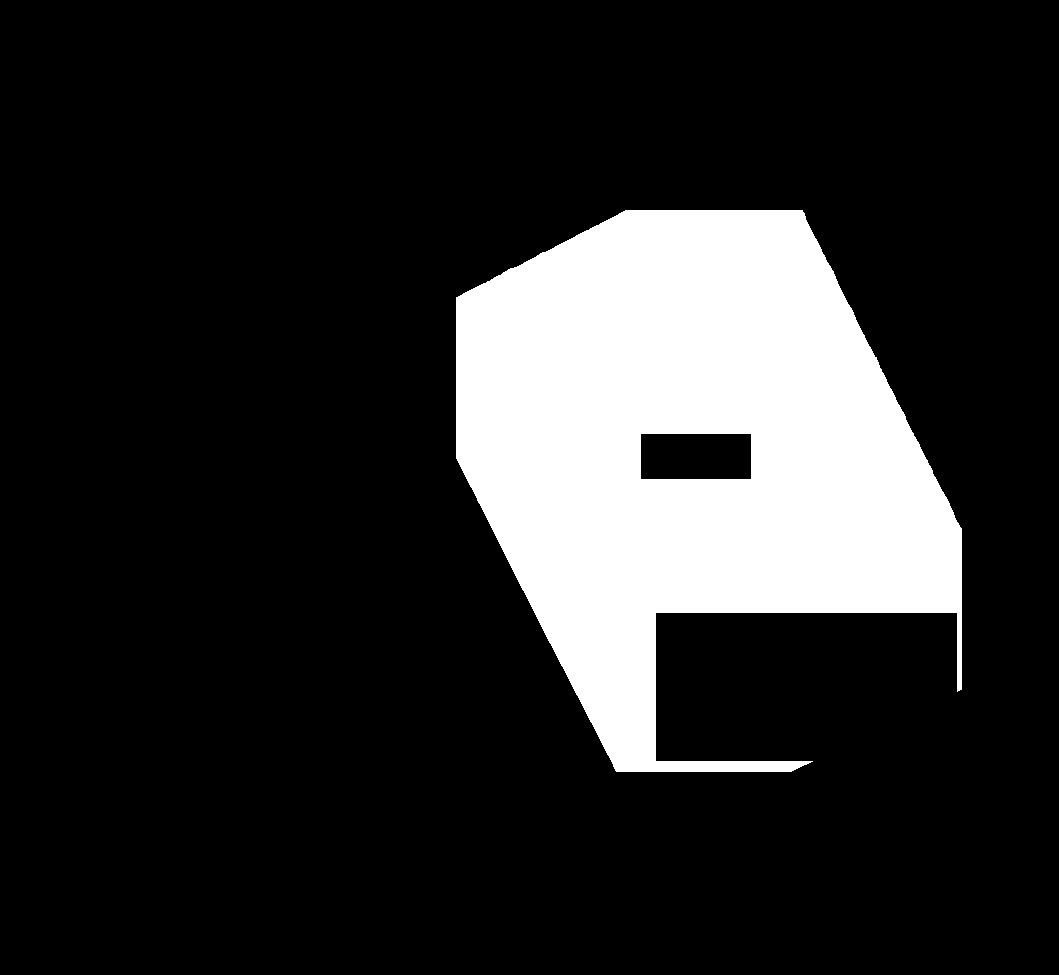
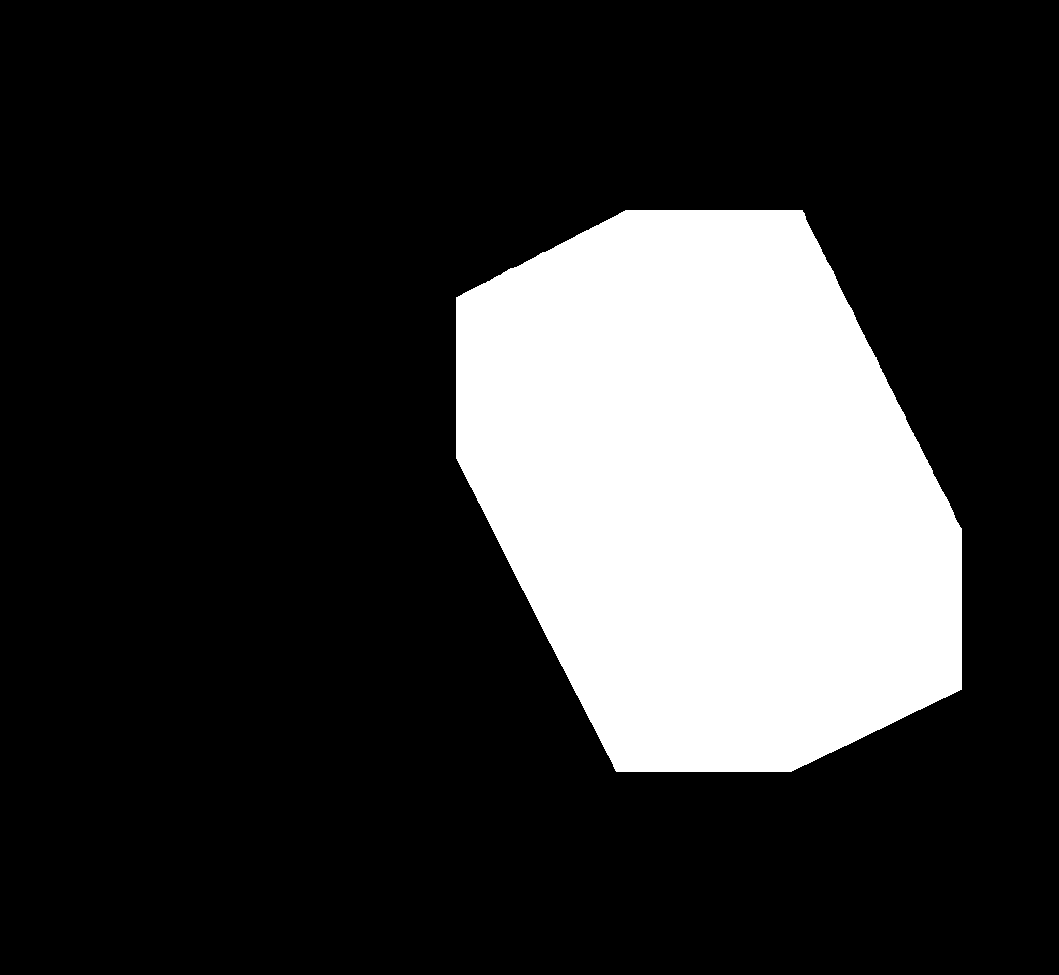
The text is found within the bkground mask (still need to re-tune parameters or something might be wrong, bad results)

Changed region(s): [[0.5921, 0.6154, 0.9037, 0.8], [0.5921, 0.4308, 0.7167, 0.4923]]

diff --git a/week5/text_removal_mask2.py b/week5/text_removal_mask2.py
@@ -22,107 +22,115 @@ def find_text(img, background_mask, name, option):
         min_compactness_ratio = 0.002
         th=0.005
 
-    #Image pre-processing: the difference betwen the image opening and closing is computed
-    kernel = cv.getStructuringElement(cv.MORPH_ELLIPSE, (2*6-1, 2*6-1))
-    img_opening = cv.morphologyEx(img, cv.MORPH_OPEN, kernel)
-    img_closing = cv.morphologyEx(img, cv.MORPH_CLOSE, kernel)
-    img_enhanced = img_closing - img_opening
-    img_lowpass	= cv.GaussianBlur(img_enhanced, (5,5), 20)
-
-    #Binarization: only the 4% brightest pixels are set to positive
+    masks = []
     height = img.shape[0]
     width = img.shape[1]
     npx =  height*width
-    hist = cv.calcHist([img_lowpass], [0], None, [256], [0, 255])/npx
-    prob=0
-    i=0
-    while(prob<th):
-        prob += hist[255-i][0]
-        i+=1
-    th=255-i
-    ret,img_binary = cv.threshold(img_lowpass,th,255,cv.THRESH_BINARY)
 
-    #Candidate text region extraction
-    kernel = np.ones((15,30), np.uint8)
-    img_dilated = cv.dilate(img_binary,kernel,iterations = 3)
-    kernel = np.ones((10,10), np.uint8)
-    img_eroded = cv.erode(img_dilated,kernel,iterations = 2)
-    img_opening = cv.morphologyEx(img_eroded, cv.MORPH_OPEN, np.ones((15,15), np.uint8))
+    for picture in range(np.shape(background_mask)[0]):
+        #Crop image
+        img = cv.bitwise_and(img, img, mask=background_mask[picture])
 
-    num, labels = cv.connectedComponents(img_opening)
-    sorted_labels = labels.ravel()
-    sorted_labels = np.sort(sorted_labels)
+        #Image pre-processing: the difference betwen the image opening and closing is computed
+        kernel = cv.getStructuringElement(cv.MORPH_ELLIPSE, (2*6-1, 2*6-1))
+        img_opening = cv.morphologyEx(img, cv.MORPH_OPEN, kernel)
+        img_closing = cv.morphologyEx(img, cv.MORPH_CLOSE, kernel)
+        img_enhanced = img_closing - img_opening
+        img_lowpass	= cv.GaussianBlur(img_enhanced, (5,5), 20)
 
-    labels = np.uint8(labels)
-    """
-    cv.imshow("img_binary", labels*255)
-    cv.waitKey(0)
-    cv.destroyAllWindows()
-    """
-    #Discarting non desired regions
-    if np.shape(background_mask)[0]>1:
-        min_size = npx/(20*20)
-    else:
-        min_size = npx/(15*15)
-    coords = []
+        #Binarization: only the 4% brightest pixels are set to positive
+        hist = cv.calcHist([img_lowpass], [0], None, [256], [0, 255])/npx
+        prob=0
+        i=0
+        while(prob<th and i<256):
+            prob += hist[255-i][0]
+            i+=1
+        th=255-i
+        ret,img_binary = cv.threshold(img_lowpass,th,255,cv.THRESH_BINARY)
 
-    for i in range(1, num+1):
+        #Candidate text region extraction
+        kernel = np.ones((15,30), np.uint8)
+        img_dilated = cv.dilate(img_binary,kernel,iterations = 3)
+        kernel = np.ones((10,10), np.uint8)
+        img_eroded = cv.erode(img_dilated,kernel,iterations = 2)
+        img_opening = cv.morphologyEx(img_eroded, cv.MORPH_OPEN, np.ones((15,15), np.uint8))
 
-        region = labels == i
-        region = np.uint8(region)
-        positions =  np.where(labels == i)
-        size = len(positions[0])
+        cv.namedWindow('img_opening',cv.WINDOW_NORMAL)
+        cv.resizeWindow('img_opening', 600,600)
+        cv.imshow("img_opening", img_opening)
+        cv.waitKey(0)
+        cv.destroyAllWindows()
 
-        if size < min_size:
+        num, labels = cv.connectedComponents(img_opening)
+        sorted_labels = labels.ravel()
+        sorted_labels = np.sort(sorted_labels)
 
-            labels[positions] = 0
-
+        labels = np.uint8(labels)
+        """
+        cv.imshow("img_binary", labels*255)
+        cv.waitKey(0)
+        cv.destroyAllWindows()
+        """
+        #Discarting non desired regions
+        if np.shape(background_mask)[0]>1:
+            min_size = npx/(20*20)
         else:
+            min_size = npx/(15*15)
+        coords = []
 
-            _, contours,_ = cv.findContours(region, cv.RETR_EXTERNAL, cv.CHAIN_APPROX_NONE)
-            contour_sizes = [(cv.contourArea(contour), contour) for contour in contours]
-            largest_contour = max(contour_sizes, key=lambda x: x[0])[1]
-            (x,y,w,h) = cv.boundingRect(largest_contour)
-            perimeter = cv.arcLength(largest_contour,True)
-            if h/w>max_aspect_ratio or h/w<min_aspect_ratio or len(positions[0])/(w*h)<min_occupancy_ratio or (w*h)/(perimeter*perimeter)<min_compactness_ratio:
+        for i in range(1, num+1):
+
+            region = labels == i
+            region = np.uint8(region)
+            positions =  np.where(labels == i)
+            size = len(positions[0])
+
+            if size < min_size:
+
                 labels[positions] = 0
+
             else:
-                coords.append((x,y,w,h,size))
-    
-    # cv.namedWindow('img_binary',cv.WINDOW_NORMAL)
-    # cv.resizeWindow('img_binary', 600,600)
-    # cv.imshow("img_binary", labels*255)
-    # cv.waitKey(0)
-    # cv.destroyAllWindows()
-    
-    #Creating the expected number of masks by keeping the biggest bounding boxes
-    coords.sort(key=lambda x:x[4], reverse=True)
-    masks = []
-    tx = []
-    ty = []
-    if option == 'find':
-        length = np.shape(background_mask)[0]
-    if option == 'remove':
-        length = max(len(coords),np.shape(background_mask)[0])
 
-    for i in range(length):
-        if len(coords)>0:
-            (x,y,w,h,size) = coords.pop(0)
-            m = np.zeros((height,width),np.uint8)
-            m[y:y + h, x:x + w] = 255
-            masks.append(np.uint8(m))
-            tx.append((x+w)/2)
-            ty.append((y+h)/2)
-        else:
-            m = np.zeros((height,width),np.uint8)
-            masks.append(np.uint8(m))
-
-        # cv.namedWindow('mask',cv.WINDOW_NORMAL)
-        # cv.resizeWindow('mask', 600,600)
-        # cv.imshow("mask", masks[i])
+                _, contours,_ = cv.findContours(region, cv.RETR_EXTERNAL, cv.CHAIN_APPROX_NONE)
+                contour_sizes = [(cv.contourArea(contour), contour) for contour in contours]
+                largest_contour = max(contour_sizes, key=lambda x: x[0])[1]
+                (x,y,w,h) = cv.boundingRect(largest_contour)
+                perimeter = cv.arcLength(largest_contour,True)
+                if h/w>max_aspect_ratio or h/w<min_aspect_ratio or len(positions[0])/(w*h)<min_occupancy_ratio or (w*h)/(perimeter*perimeter)<min_compactness_ratio:
+                    labels[positions] = 0
+                else:
+                    coords.append((x,y,w,h,size))
+        
+        # cv.namedWindow('img_binary',cv.WINDOW_NORMAL)
+        # cv.resizeWindow('img_binary', 600,600)
+        # cv.imshow("img_binary", labels*255)
         # cv.waitKey(0)
         # cv.destroyAllWindows()
+        
+        #Creating the expected number of masks by keeping the biggest bounding boxes
+        coords.sort(key=lambda x:x[4], reverse=True)
+        tx = []
+        ty = []
+        mask=[]
+        if option == 'find':
+            length = 1
+        if option == 'remove':
+            length = max(len(coords),1)
 
+        m = np.zeros((height,width),np.uint8)
+        for i in range(length):
+            if len(coords)>0:
+                (x,y,w,h,size) = coords.pop(0)   
+                m[y:y + h, x:x + w] = 255
+                tx.append((x+w)/2)
+                ty.append((y+h)/2)
+
+            cv.namedWindow('mask',cv.WINDOW_NORMAL)
+            cv.resizeWindow('mask', 600,600)
+            cv.imshow("mask", m)
+            cv.waitKey(0)
+            cv.destroyAllWindows()
+        masks.append(m)
 
     if option == 'remove':
         total_mask=np.zeros((height,width),np.uint8)
@@ -133,29 +141,26 @@ def find_text(img, background_mask, name, option):
             total_masks.append(total_mask)
 
         return total_masks
-    
 
-    
-    #Matching text mask to background mask (only if the image contains 2 or more paintings)
-    if np.shape(background_mask)[0]>1:
-        cx = np.zeros(2)
-        cy = np.zeros(2)
-        for i in range(np.shape(background_mask)[0]):
-            moments = cv.moments(background_mask[i])
-            cx[i]=int(moments["m10"]/moments["m00"])
-            cy[i]=int(moments["m01"]/moments["m00"])
-        if np.sum(masks[0])!=0 and np.sum(masks[1])!=0:
-            if math.sqrt(((cx[0]-tx[0])**2)+((cy[0]-ty[0])**2)) + math.sqrt(((cx[1]-tx[1])**2)+((cy[1]-ty[1])**2)) > math.sqrt(((cx[0]-tx[1])**2)+((cy[0]-ty[1])**2)) + math.sqrt(((cx[1]-tx[0])**2)+((cy[1]-ty[0])**2)):
-                aux = masks[0]
-                masks[0] = masks[1]
-                masks[1] = aux
-        else:
-            if math.sqrt(((cx[0]-tx[0])**2)+((cy[0]-ty[0])**2)) > math.sqrt(((cx[1]-tx[0])**2)+((cy[1]-ty[0])**2)):
-                aux = masks[0]
-                masks[0] = masks[1]
-                masks[1] = aux
-
-
+        
+        # #Matching text mask to background mask (only if the image contains 2 or more paintings)
+        # if np.shape(background_mask)[0]>1:
+        #     cx = np.zeros(2)
+        #     cy = np.zeros(2)
+        #     for i in range(np.shape(background_mask)[0]):
+        #         moments = cv.moments(background_mask[i])
+        #         cx[i]=int(moments["m10"]/moments["m00"])
+        #         cy[i]=int(moments["m01"]/moments["m00"])
+        #     if np.sum(masks[0])!=0 and np.sum(masks[1])!=0:
+        #         if math.sqrt(((cx[0]-tx[0])**2)+((cy[0]-ty[0])**2)) + math.sqrt(((cx[1]-tx[1])**2)+((cy[1]-ty[1])**2)) > math.sqrt(((cx[0]-tx[1])**2)+((cy[0]-ty[1])**2)) + math.sqrt(((cx[1]-tx[0])**2)+((cy[1]-ty[0])**2)):
+        #             aux = masks[0]
+        #             masks[0] = masks[1]
+        #             masks[1] = aux
+        #     else:
+        #         if math.sqrt(((cx[0]-tx[0])**2)+((cy[0]-ty[0])**2)) > math.sqrt(((cx[1]-tx[0])**2)+((cy[1]-ty[0])**2)):
+        #             aux = masks[0]
+        #             masks[0] = masks[1]
+        #             masks[1] = aux
     return masks
 
 # for f in sorted(glob.glob(qs_l)):
